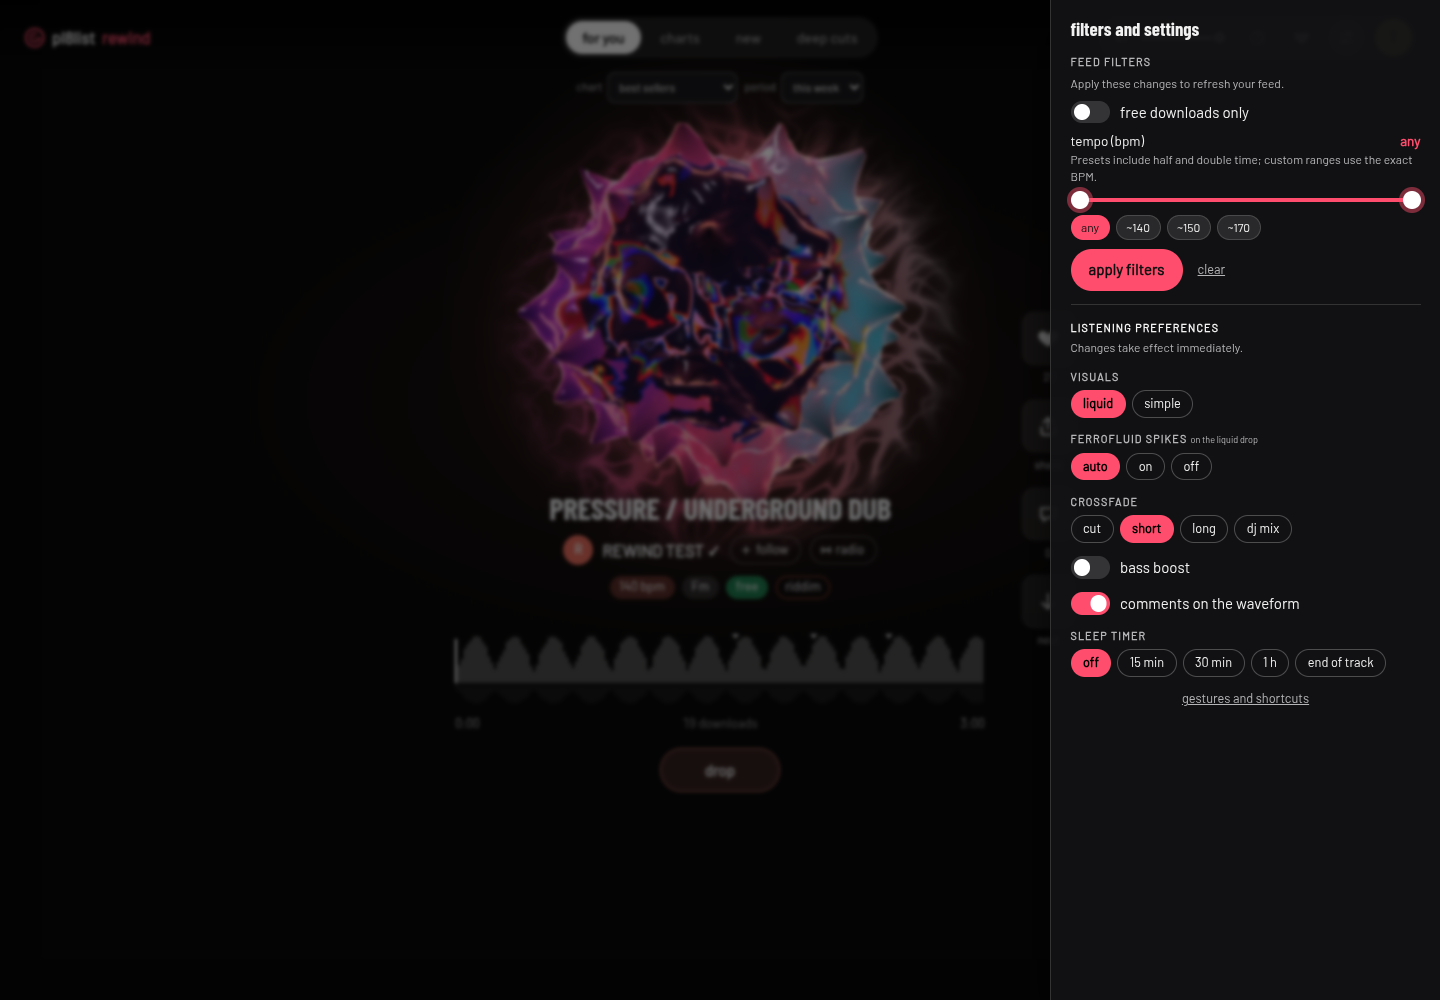
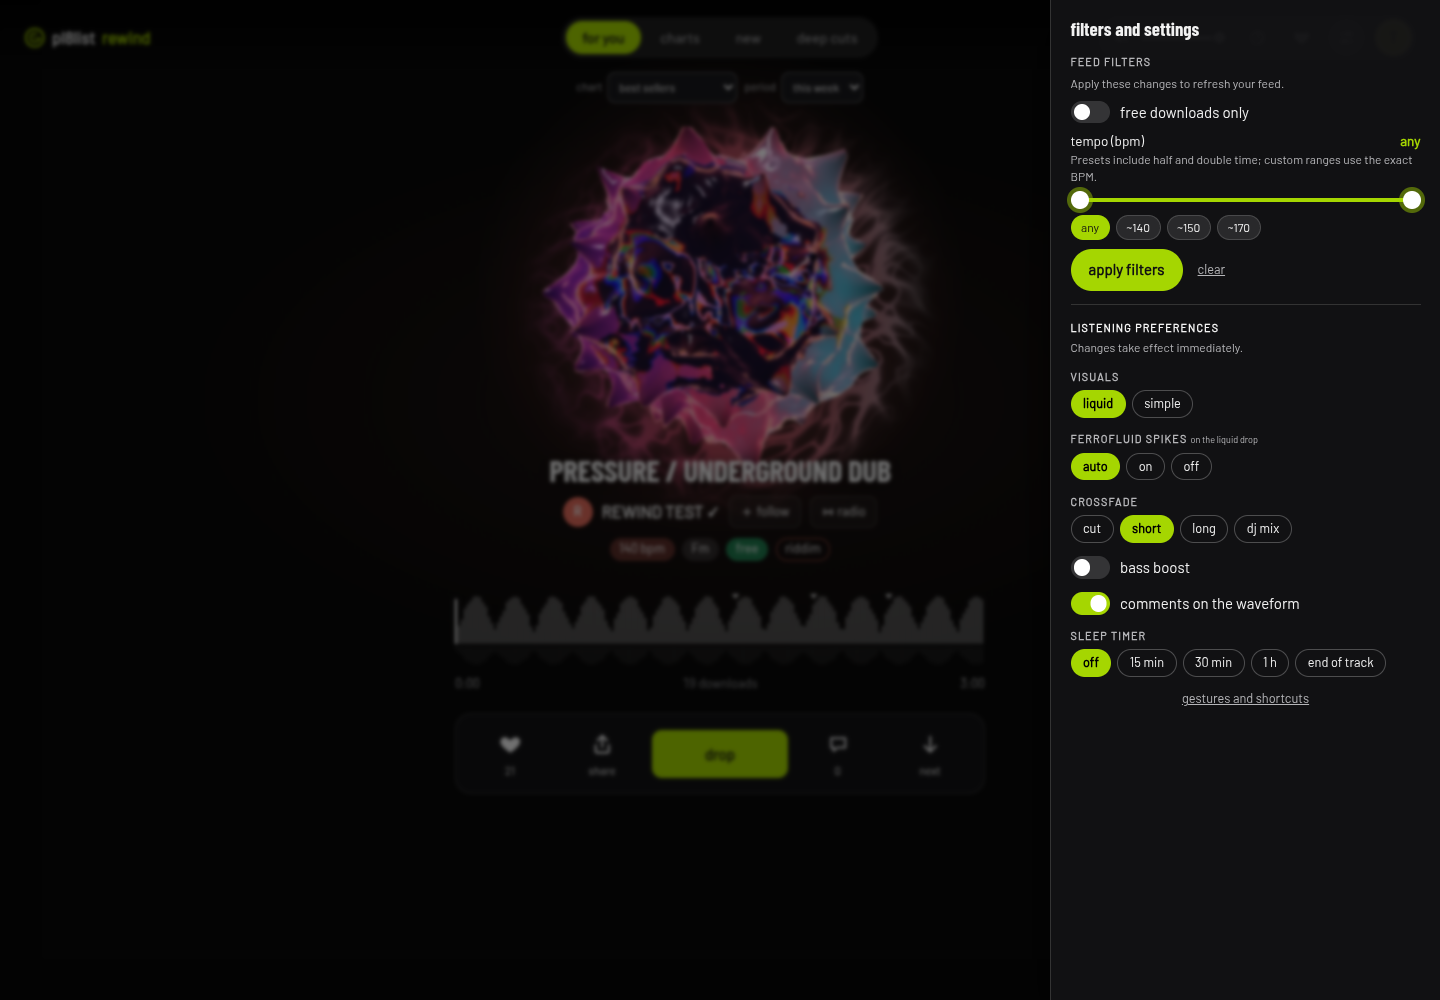
feat(ui): unify player controls with pl8list lime

diff --git a/web/src/style.css b/web/src/style.css
@@ -9,7 +9,9 @@
   --fg: #f2f2f2;
   --muted: #b5b5b8;
   --faint: #96969a;
-  --accent: #ff4d6d;
+  --accent: #a5d601;
+  --accent-hover: #b2e51a;
+  --danger: #ff8585;
   --panel: rgba(18, 18, 20, 0.94);
   --line: #ffffff1f;
   --line-strong: #333;
@@ -1144,8 +1146,8 @@ button.primary:disabled { opacity: 0.35; cursor: default; }
   place-items: center;
   padding: 1rem;
   background:
-    radial-gradient(60rem 40rem at 20% 10%, #ff4d6d33, transparent 60%),
-    radial-gradient(50rem 40rem at 90% 90%, #4d6dff2e, transparent 60%),
+    radial-gradient(60rem 40rem at 20% 10%, #a5d60120, transparent 60%),
+    radial-gradient(50rem 40rem at 90% 90%, #a5d6010c, transparent 60%),
     #050507;
 }
 
@@ -1378,4 +1380,45 @@ body.zen .content { gap: 0.3rem; }
 }
 @media (max-width: 640px) and (max-height: 700px) {
   body:has(#discovery-options:not([hidden])) .art { width: min(8rem, 18dvh, 44vw); }
+}
+
+/* pl8list brand controls; artist accents remain local to each track. */
+#mode-tabs button[aria-pressed="true"] { background: var(--accent); color: #111; }
+.login-box button[type=submit], .help-box button { color: #111; }
+button.primary:hover, .login-box button[type=submit]:hover { background: var(--accent-hover); }
+.link.danger, #login-error { color: var(--danger); }
+button.danger:not(.link) { background: var(--danger); color: #111; }
+
+/* One listening console, aligned to the waveform on every screen. */
+.content .actions {
+  position: relative; inset: auto; translate: none; transform: none;
+  width: 100%; display: grid; grid-template-columns: 1fr 1fr 1.6fr 1fr 1fr;
+  align-items: center; gap: 0.5rem; margin-top: 0.75rem; padding: 0.75rem;
+  border: 1px solid var(--line); border-radius: 16px;
+  background: #141416d9; backdrop-filter: blur(16px);
+}
+.content .act { min-width: 0; min-height: 56px; justify-content: center; gap: 0.25rem; border-radius: 8px; }
+.content .act .ring { width: 2rem; height: 2rem; background: none; box-shadow: none; border: none; backdrop-filter: none; }
+.content .act:hover { background: var(--glass); }
+.content .act.like.on { color: var(--accent); background: color-mix(in oklab, var(--accent) 10%, transparent); }
+.content .act.like.on .ring { color: inherit; background: none; }
+.content .actions .to-drop {
+  margin: 0; min-width: 0; min-height: 48px; padding: 0.5rem;
+  border-radius: 10px; background: var(--accent); border: 1px solid transparent;
+  color: #111; justify-content: center; font: 600 1rem/1.2 var(--font);
+}
+.content .actions .to-drop:hover { background: var(--accent-hover); }
+.content .actions .to-drop:disabled { background: #292b28; border-color: var(--line); color: var(--muted); cursor: default; }
+.content .time { gap: 0.5rem; }
+.byline .pill { min-height: 32px; padding: 0.3rem 0.7rem; border-radius: 8px; border-color: var(--line); background: #ffffff09; }
+body.zen .content .actions { display: none; }
+@media (min-width: 900px) and (pointer: fine) {
+  .art { width: min(calc(14 * var(--u)), 35vh); }
+  .content { gap: 0.65rem; }
+}
+@media (max-width: 640px) {
+  .content { margin-bottom: 4.5rem; }
+  .content .actions { padding: 0.45rem; gap: 0.25rem; margin-top: 0.5rem; }
+  #up-next { bottom: max(0.8rem, env(safe-area-inset-bottom)); }
+  #toast { bottom: calc(max(0.8rem, env(safe-area-inset-bottom)) + 4.6rem); }
 }

diff --git a/web/index.html b/web/index.html
@@ -318,14 +318,15 @@
           <canvas class="wave" aria-hidden="true"></canvas>
           <span class="wave-tip"></span>
         </div>
-        <div class="time"><span class="cur">0:00</span><button type="button" class="to-drop" title="jump to the next marked drop (d)">drop</button><span class="counts"></span><span class="dur"></span></div>
-      </div>
-      <nav class="actions">
+        <div class="time"><span class="cur">0:00</span><span class="counts"></span><span class="dur"></span></div>
+      <nav class="actions" aria-label="track controls">
         <button type="button" class="act like" title="like (l)" aria-label="like"><span class="ring"><svg><use href="#i-heart"/></svg></span><span class="n saves"></span></button>
         <button type="button" class="act share" title="share (s)" aria-label="share"><span class="ring"><svg><use href="#i-share"/></svg></span><span class="n">share</span></button>
+        <button type="button" class="to-drop" title="jump to the next marked drop (d)">drop</button>
         <a class="act open" target="_blank" rel="noopener" title="open on pl8list" aria-label="open on pl8list"><span class="ring"><svg><use href="#i-comment"/></svg></span><span class="n comments"></span></a>
         <button type="button" class="act next" title="next (j)" aria-label="next"><span class="ring"><svg><use href="#i-down"/></svg></span><span class="n">next</span></button>
       </nav>
+      </div>
     </section>
   </template>
 

diff --git a/web/src/cards.ts b/web/src/cards.ts
@@ -195,7 +195,8 @@ export class Card {
     $(".follow").addEventListener("click", () => this.actions.follow(this));
     $(".radio").addEventListener("click", () => this.actions.radio(this));
     const toDrop = $(".to-drop");
-    toDrop.hidden = !this.drops.length;
+    (toDrop as HTMLButtonElement).disabled = !this.drops.length;
+    if (!this.drops.length) toDrop.title = "no marked drops in this track";
     toDrop.addEventListener("click", () => this.actions.toDrop(this));
 
     this.el = el;

diff --git a/web/public/legal.css b/web/public/legal.css
@@ -1,6 +1,6 @@
 /* Impressum and privacy pages. Plain CSS outside the app bundle, so the server's
    templates can link it by a fixed name. */
-:root { color-scheme: dark; --fg: #f2f2f2; --muted: #9a9a9a; --accent: #e9e8e3; }
+:root { color-scheme: dark; --fg: #f2f2f2; --muted: #9a9a9a; --accent: #a5d601; }
 * { box-sizing: border-box; }
 body {
   margin: 0;

diff --git a/docs/redesign/README.md b/docs/redesign/README.md
@@ -9,3 +9,5 @@ Still requires real-device validation: real-track onset timing, touch gestures, 
 Run the frontend with `cd web && bun install --frozen-lockfile && bun run dev`. Build with `bun run build`.
 
 The chromatic artwork material, artist accents and rounded controls have been restored following visual feedback. The drop button has a centered row beneath the waveform, no arrow, and a 44px minimum height. Chart selectors have dedicated clearance on short mobile screens.
+
+The player now uses one waveform-aligned action console on desktop and mobile, with drop centered. A track without detected drops keeps that control disabled to preserve the layout. Primary controls use pl8list's public Pico lime colors (`#a5d601`, hover `#b2e51a`); artist colors still drive the artwork and waveform. Checked desktop and short-mobile layouts with chart selectors visible; the synthetic Chromium fixture reported no page errors.
